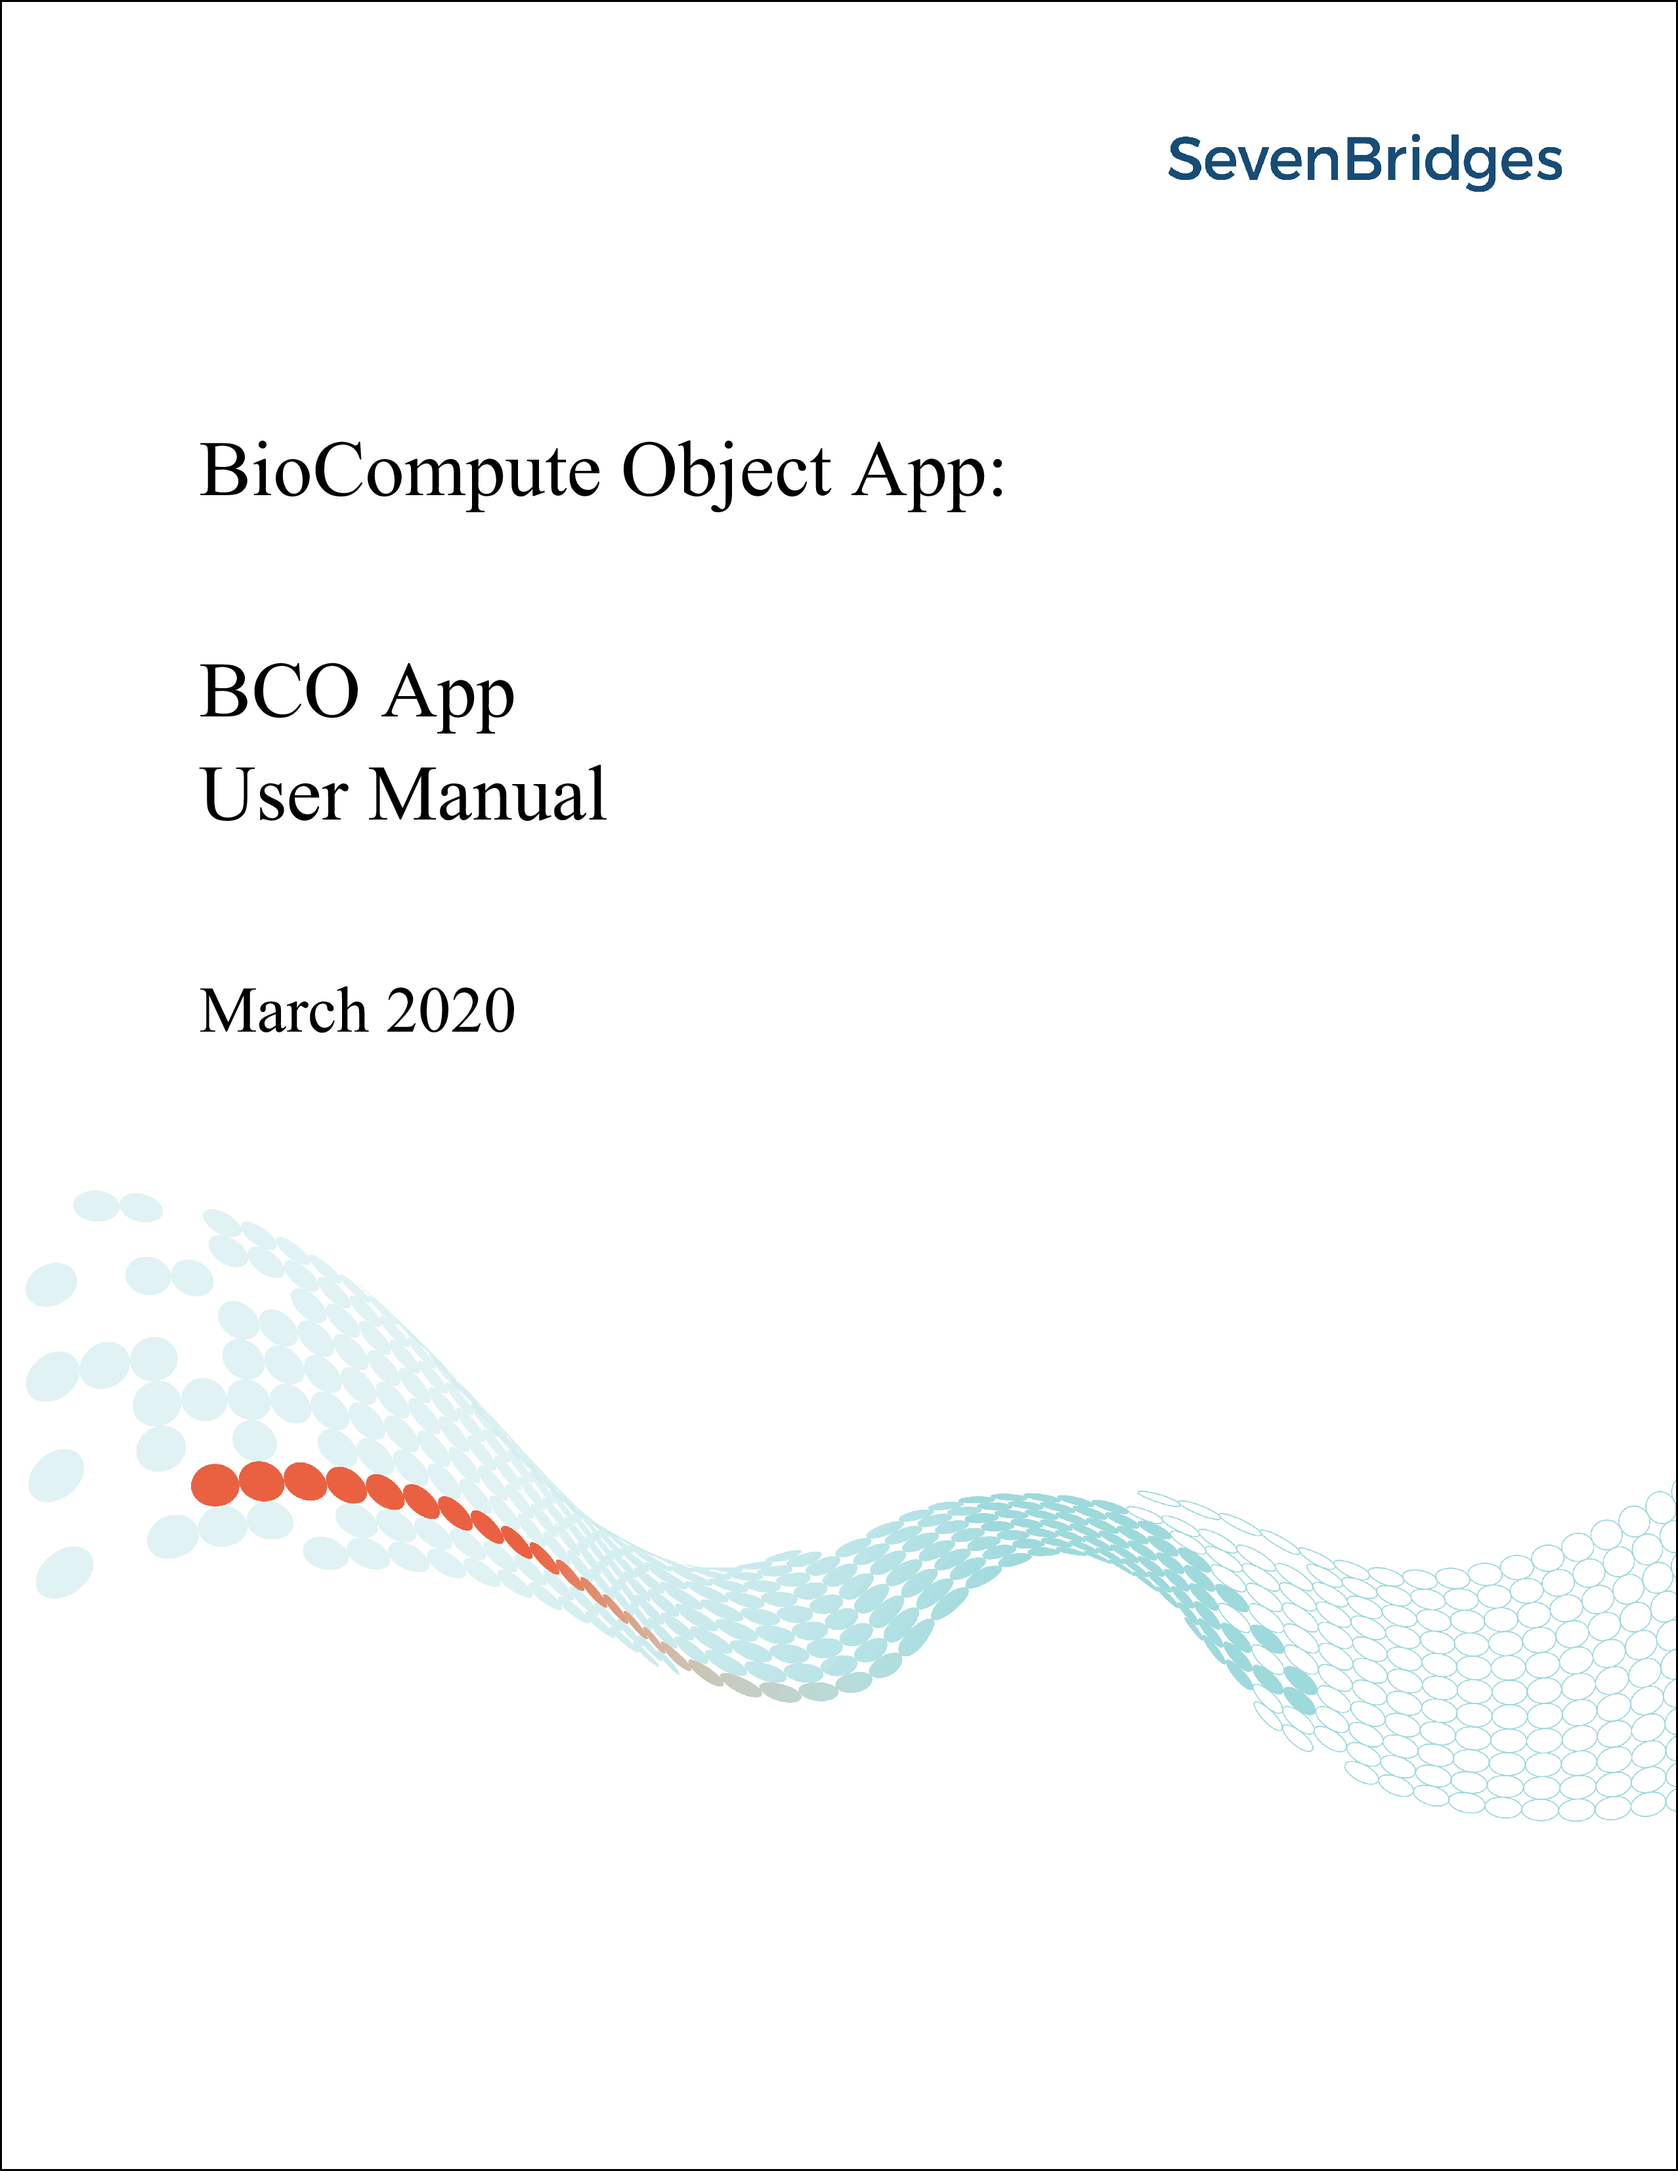
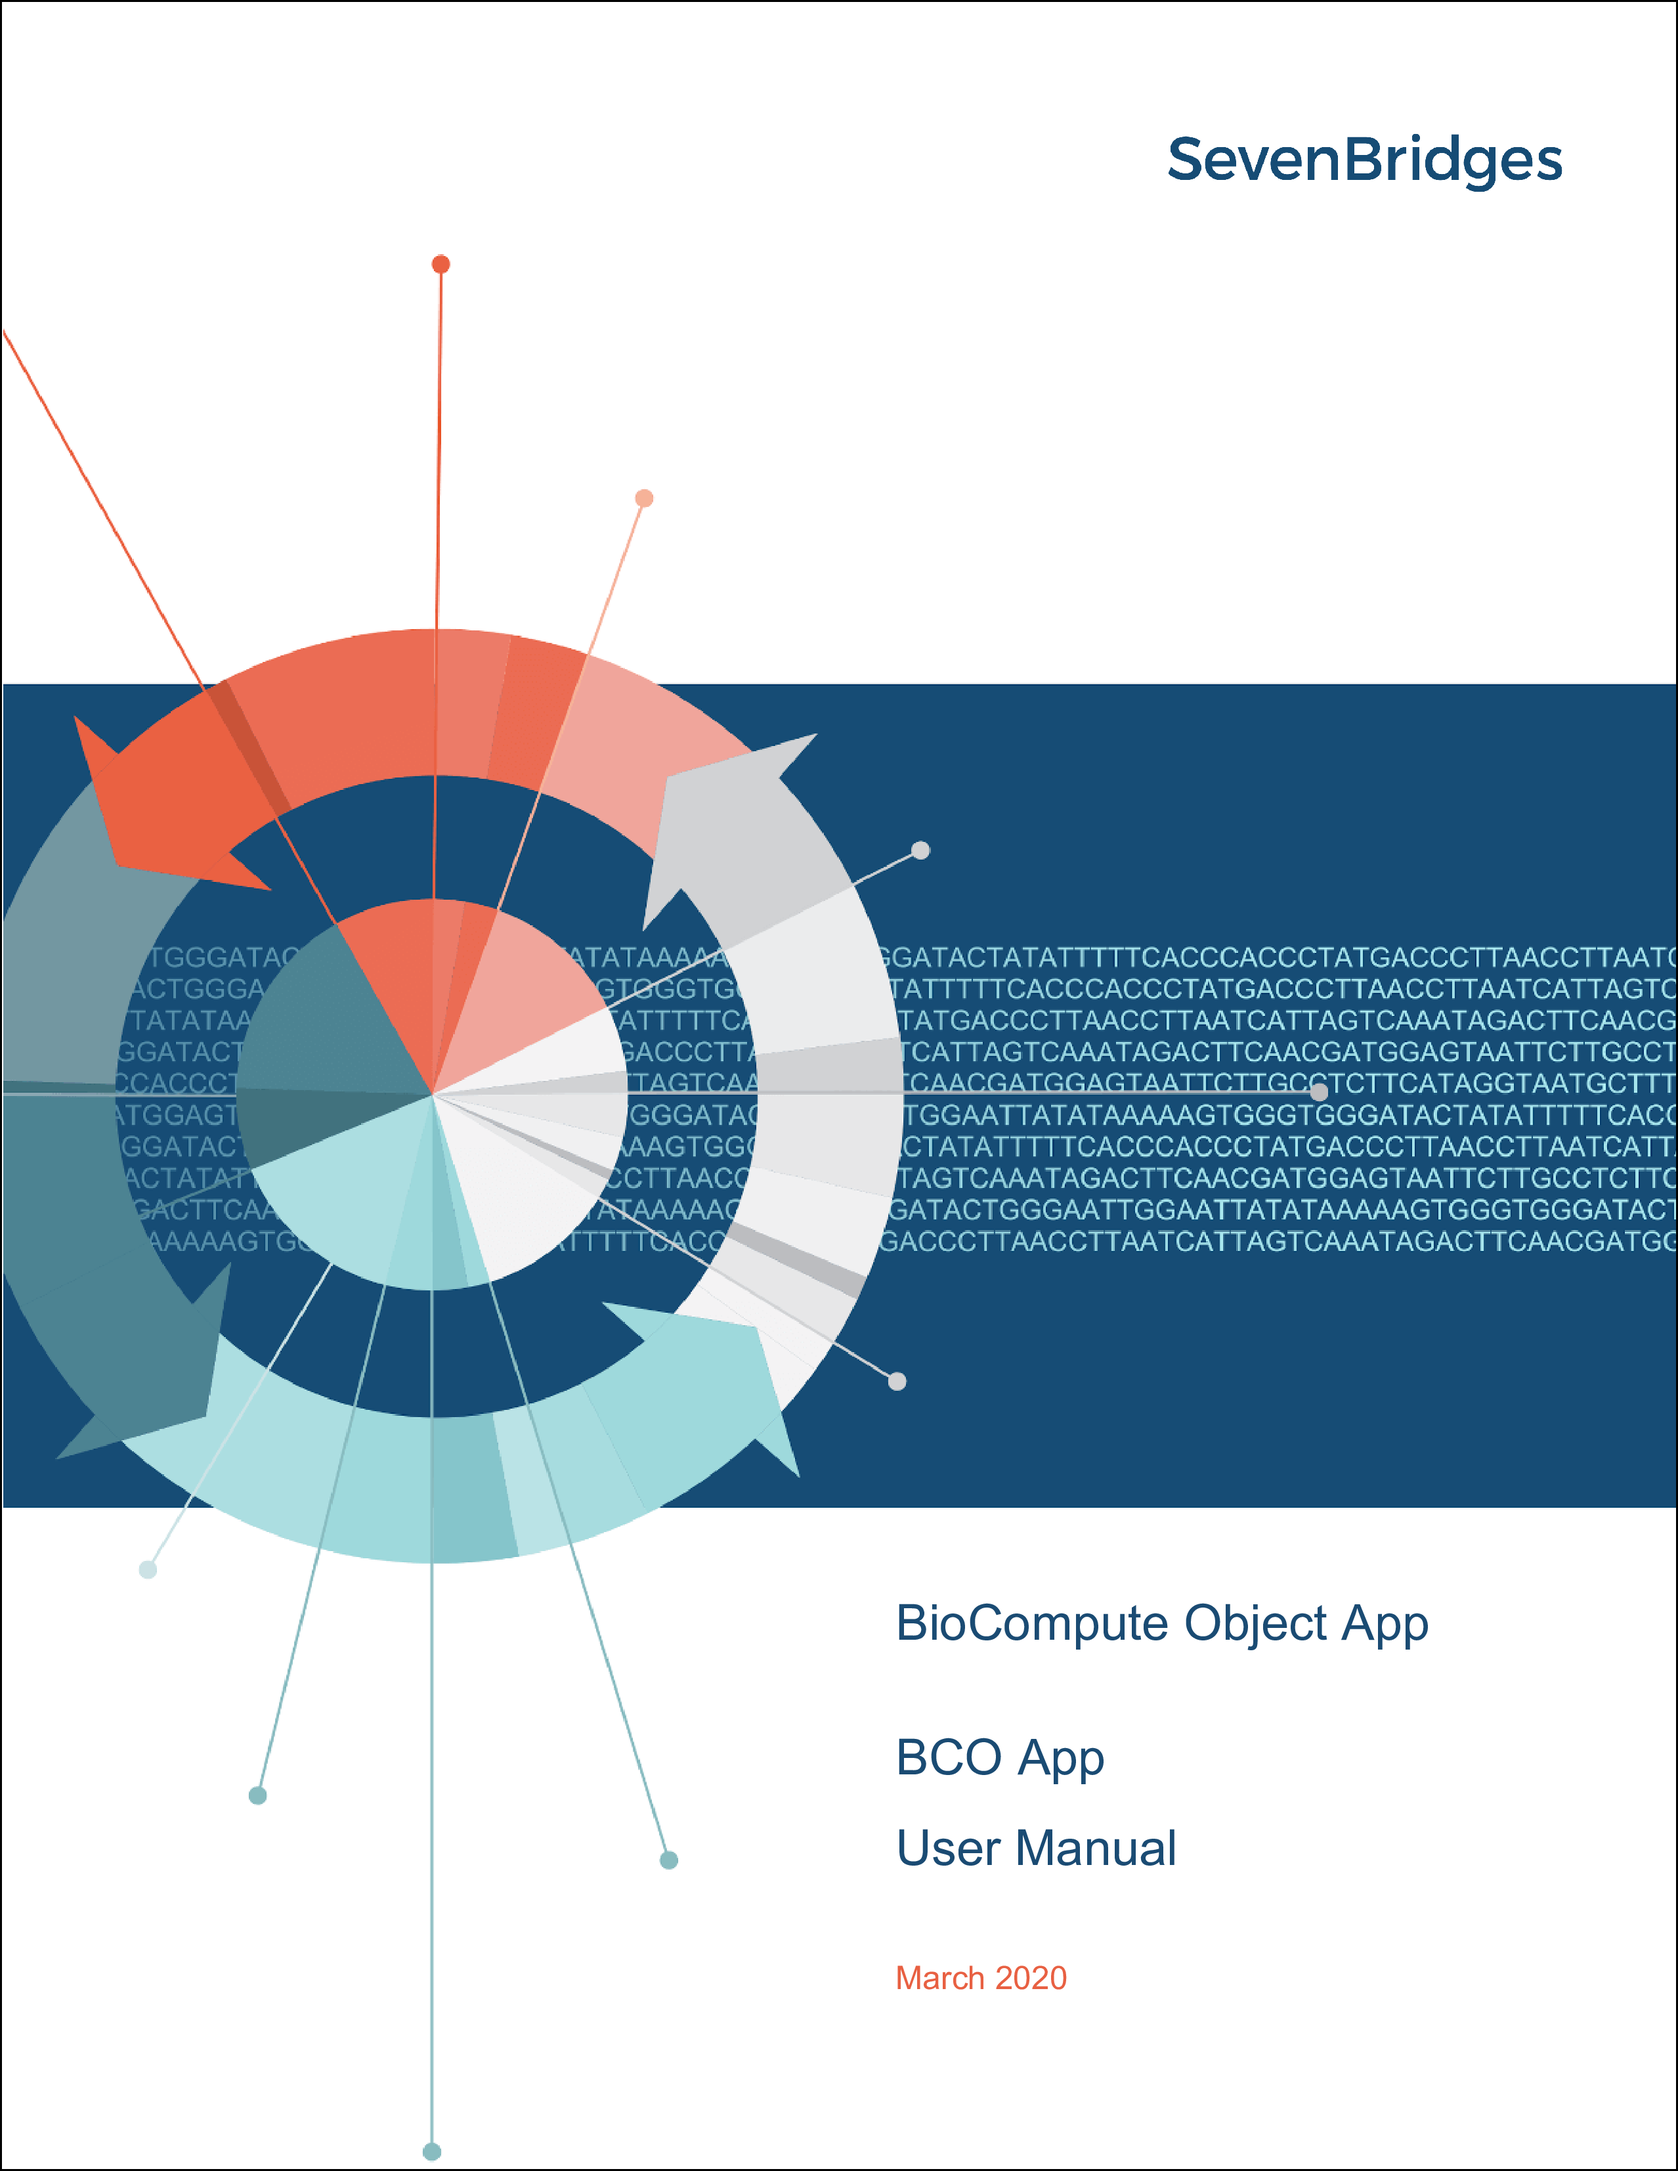
update cover page

diff --git a/docs-src/pdf/template.tex b/docs-src/pdf/template.tex
@@ -24,16 +24,23 @@ $endif$
 
 % some more packages...
 \usepackage{graphicx}
-\usepackage{xcolor}
 \usepackage{hyperref}
 \hypersetup{colorlinks=true, linkcolor=blue, urlcolor=blue}
-\usepackage{eso-pic}
-
-\definecolor{sbgnavy}{HTML}{1A4B73}
+\usepackage{eso-pic} % background image
 
 %\renewcommand{\chaptername}{} %% remove the word \chapter
 
+% define color palette
+\usepackage{xcolor}
+\definecolor{sbblue}{HTML}{1A4B73}
+\definecolor{sbcoral}{HTML}{E86042}
+\definecolor{sbdarkgray}{HTML}{4D4D4F}
 
+% section title color
+\usepackage{sectsty}
+\sectionfont{\color{sbblue}}
+\subsectionfont{\color{sbblue}}
+\subsubsectionfont{\color{sbblue}}
 
 \usepackage{fixltx2e} % provides \textsubscript
 \ifnum 0\ifxetex 1\fi\ifluatex 1\fi=0 % if pdftex
@@ -95,9 +102,9 @@ $if(keywords)$
 $endif$
 $if(colorlinks)$
             colorlinks=true,
-            linkcolor=$if(linkcolor)$$linkcolor$$else$sbgnavy$endif$,
-            citecolor=$if(citecolor)$$citecolor$$else$sbgnavy$endif$,
-            urlcolor=$if(urlcolor)$$urlcolor$$else$sbgnavy$endif$,
+            linkcolor=$if(linkcolor)$$linkcolor$$else$sbblue$endif$,
+            citecolor=$if(citecolor)$$citecolor$$else$sbblue$endif$,
+            urlcolor=$if(urlcolor)$$urlcolor$$else$sbblue$endif$,
 $else$
             pdfborder={0 0 0},
 $endif$
@@ -234,8 +241,6 @@ $for(header-includes)$
 $header-includes$
 $endfor$
 
-
-
 % header and footer
 \usepackage{fancyhdr}
 \usepackage{lastpage}
@@ -262,17 +267,20 @@ $endfor$
     \end{figure}
 
     \phantom{}
-    \vspace{1.5cm}
+    \vspace{16.5cm}
 
-  \begin{minipage}{\textwidth}
+  \noindent
+  \makebox[\textwidth][r]{
+  \begin{minipage}{0.45\textwidth}
   \begin{flushleft}
-    {\fontsize{30}{34}\selectfont $title$}
+    \textcolor{sbblue}{{\fontsize{22}{22}\selectfont $title$}}
   \end{flushleft}
-    \vspace{0.6in}
+    \vspace{0.4in}
   \begin{flushleft}
-    \Huge{$month$}
+    \textcolor{sbcoral}{\large{$month$}}
   \end{flushleft}
   \end{minipage}
+  }
 
   \vfill
 
